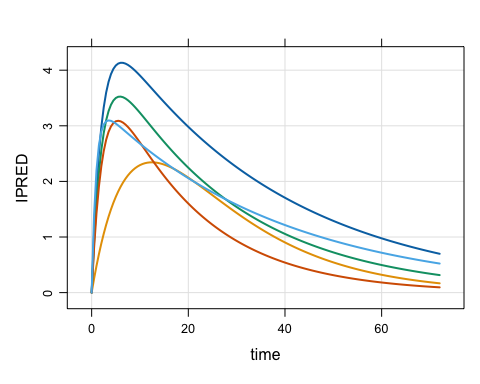
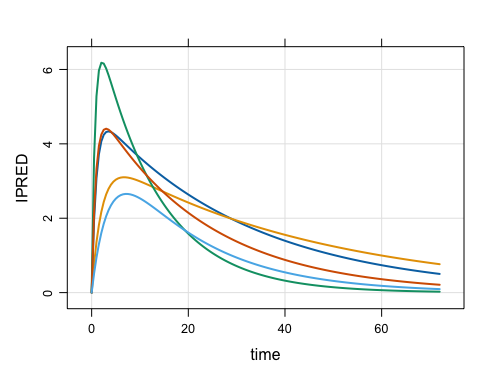
last commit prior to transfer

diff --git a/README.md b/README.md
@@ -60,15 +60,15 @@ out
 . Dim  : 1.4M x 4
 . Files: 1 [13.2 Mb]
 . Owner: yes (gc)
-.     ID time        CL     IPRED
-. 1:   1  0.0 0.7113651 0.0000000
-. 2:   1  0.0 0.7113651 0.0000000
-. 3:   1  0.5 0.7113651 0.6765573
-. 4:   1  1.0 0.7113651 1.2380828
-. 5:   1  1.5 0.7113651 1.7025064
-. 6:   1  2.0 0.7113651 2.0849863
-. 7:   1  2.5 0.7113651 2.3983372
-. 8:   1  3.0 0.7113651 2.6533922
+.     ID time       CL     IPRED
+. 1:   1  0.0 1.249224 0.0000000
+. 2:   1  0.0 1.249224 0.0000000
+. 3:   1  0.5 1.249224 0.8828213
+. 4:   1  1.0 1.249224 1.4027791
+. 5:   1  1.5 1.249224 1.7041492
+. 6:   1  2.0 1.249224 1.8739082
+. 7:   1  2.5 1.249224 1.9644891
+. 8:   1  3.0 1.249224 2.0074996
 ```
 
 ## Very lightweight simulation output object
@@ -79,7 +79,7 @@ disk.
 
 ``` r
 basename(out$files)
-. [1] "mrgsims-ds-d6833c771dfc.parquet"
+. [1] "mrgsims-ds-141627dfeed38.parquet"
 ```
 
 This means there is almost nothing inside the object itself
@@ -126,23 +126,23 @@ head(out)
 . # A tibble: 6 × 4
 .      ID  time    CL IPRED
 .   <dbl> <dbl> <dbl> <dbl>
-. 1     1   0   0.711 0    
-. 2     1   0   0.711 0    
-. 3     1   0.5 0.711 0.677
-. 4     1   1   0.711 1.24 
-. 5     1   1.5 0.711 1.70 
-. 6     1   2   0.711 2.08
+. 1     1   0    1.25 0    
+. 2     1   0    1.25 0    
+. 3     1   0.5  1.25 0.883
+. 4     1   1    1.25 1.40 
+. 5     1   1.5  1.25 1.70 
+. 6     1   2    1.25 1.87
 
 tail(out)
 . # A tibble: 6 × 4
 .      ID  time    CL IPRED
 .   <dbl> <dbl> <dbl> <dbl>
-. 1  3000  238. 0.632 0.899
-. 2  3000  238  0.632 0.891
-. 3  3000  238. 0.632 0.883
-. 4  3000  239  0.632 0.875
-. 5  3000  240. 0.632 0.867
-. 6  3000  240  0.632 0.859
+. 1  3000  238. 0.620 0.222
+. 2  3000  238  0.620 0.219
+. 3  3000  238. 0.620 0.215
+. 4  3000  239  0.620 0.212
+. 5  3000  240. 0.620 0.208
+. 6  3000  240  0.620 0.205
 
 dim(out)
 . [1] 1446000       4
@@ -156,16 +156,16 @@ as_tibble(out)
 . # A tibble: 1,446,000 × 4
 .       ID  time    CL IPRED
 .    <dbl> <dbl> <dbl> <dbl>
-.  1     1   0   0.711 0    
-.  2     1   0   0.711 0    
-.  3     1   0.5 0.711 0.677
-.  4     1   1   0.711 1.24 
-.  5     1   1.5 0.711 1.70 
-.  6     1   2   0.711 2.08 
-.  7     1   2.5 0.711 2.40 
-.  8     1   3   0.711 2.65 
-.  9     1   3.5 0.711 2.86 
-. 10     1   4   0.711 3.02 
+.  1     1   0    1.25 0    
+.  2     1   0    1.25 0    
+.  3     1   0.5  1.25 0.883
+.  4     1   1    1.25 1.40 
+.  5     1   1.5  1.25 1.70 
+.  6     1   2    1.25 1.87 
+.  7     1   2.5  1.25 1.96 
+.  8     1   3    1.25 2.01 
+.  9     1   3.5  1.25 2.02 
+. 10     1   4    1.25 2.02 
 . # ℹ 1,445,990 more rows
 ```
 
@@ -188,19 +188,19 @@ Or try your hand at duckdb
 ``` r
 as_duckdb_ds(out)
 . # Source:   table<arrow_001> [?? x 4]
-. # Database: DuckDB 1.5.1 [kyleb@Darwin 24.6.0:R 4.5.3/:memory:]
+. # Database: DuckDB 1.5.1 [root@Darwin 25.5.0:R 4.5.3/:memory:]
 .       ID  time    CL IPRED
 .    <dbl> <dbl> <dbl> <dbl>
-.  1     1   0   0.711 0    
-.  2     1   0   0.711 0    
-.  3     1   0.5 0.711 0.677
-.  4     1   1   0.711 1.24 
-.  5     1   1.5 0.711 1.70 
-.  6     1   2   0.711 2.08 
-.  7     1   2.5 0.711 2.40 
-.  8     1   3   0.711 2.65 
-.  9     1   3.5 0.711 2.86 
-. 10     1   4   0.711 3.02 
+.  1     1   0    1.25 0    
+.  2     1   0    1.25 0    
+.  3     1   0.5  1.25 0.883
+.  4     1   1    1.25 1.40 
+.  5     1   1.5  1.25 1.70 
+.  6     1   2    1.25 1.87 
+.  7     1   2.5  1.25 1.96 
+.  8     1   3    1.25 2.01 
+.  9     1   3.5  1.25 2.02 
+. 10     1   4    1.25 2.02 
 . # ℹ more rows
 ```
 
@@ -234,15 +234,15 @@ collect(dd)
 .     time  Mean     n
 .    <dbl> <dbl> <int>
 .  1   0    0     6000
-.  2   0.5  1.08  3000
-.  3   1    1.77  3000
-.  4   1.5  2.23  3000
-.  5   2    2.54  3000
-.  6   2.5  2.75  3000
-.  7   3    2.90  3000
-.  8   3.5  3.00  3000
-.  9   4    3.06  3000
-. 10   4.5  3.09  3000
+.  2   0.5  1.12  3000
+.  3   1    1.82  3000
+.  4   1.5  2.28  3000
+.  5   2    2.59  3000
+.  6   2.5  2.81  3000
+.  7   3    2.95  3000
+.  8   3.5  3.05  3000
+.  9   4    3.11  3000
+. 10   4.5  3.14  3000
 . # ℹ 471 more rows
 ```
 
@@ -256,7 +256,7 @@ library(future.apply, quietly = TRUE)
 
 plan(multisession, workers = 5L)
 
-out2 <- future_lapply(1:10, \(x) { mrgsim_ds(mod, data) }, future.seed = TRUE)
+out2 <- future_lapply(1:500, \(x) { mrgsim_ds(mod, data) }, future.seed = TRUE)
 
 out2 <- reduce_ds(out2)
 
@@ -269,23 +269,23 @@ object size.
 ``` r
 out2
 . Model: popex
-. Dim  : 14.5M x 4
-. Files: 10 [131.8 Mb]
+. Dim  : 723.0M x 4
+. Files: 500 [6.4 Gb]
 . Owner: yes (gc)
 .     ID time       CL    IPRED
-. 1:   1  0.0 1.668907 0.000000
-. 2:   1  0.0 1.668907 0.000000
-. 3:   1  0.5 1.668907 1.389168
-. 4:   1  1.0 1.668907 2.164311
-. 5:   1  1.5 1.668907 2.580709
-. 6:   1  2.0 1.668907 2.787935
-. 7:   1  2.5 1.668907 2.873612
-. 8:   1  3.0 1.668907 2.889060
+. 1:   1  0.0 1.000067 0.000000
+. 2:   1  0.0 1.000067 0.000000
+. 3:   1  0.5 1.000067 1.119126
+. 4:   1  1.0 1.000067 1.977525
+. 5:   1  1.5 1.000067 2.629675
+. 6:   1  2.0 1.000067 3.118820
+. 7:   1  2.5 1.000067 3.479284
+. 8:   1  3.0 1.000067 3.738307
 ```
 
 ``` r
 lobstr::obj_size(out2)
-. 296.81 kB
+. 429.99 kB
 ```
 
 ## Files on disk are automagically managed
@@ -294,12 +294,12 @@ All `arrow` files are stored in the `tempdir()` in parquet format
 
 ``` r
 list_temp()
-. 11 files [145 Mb]
-. - mrgsims-ds-d6833c771dfc.parquet
-. - mrgsims-ds-d6ca42ea1ca.parquet
+. 501 files [6.4 Gb]
+. - mrgsims-ds-141627dfeed38.parquet
+. - mrgsims-ds-141a21072a5e7.parquet
 .    ...
-. - mrgsims-ds-d6ce5c630542.parquet
-. - mrgsims-ds-d6ce754e2128.parquet
+. - mrgsims-ds-141a6e015654.parquet
+. - mrgsims-ds-141a6e54618e.parquet
 ```
 
 This directory is eventually removed when the R session ends. Tools are
@@ -354,8 +354,8 @@ cleaned up.
 ``` r
 gc()
 .           used  (Mb) gc trigger  (Mb) limit (Mb) max used  (Mb)
-. Ncells 2142581 114.5    3811248 203.6         NA  3630808 194.0
-. Vcells 3931312  30.0   16570059 126.5      16384 22218633 169.6
+. Ncells 1968976 105.2    6442081 344.1         NA  5873685 313.7
+. Vcells 3683421  28.2   19672646 150.1      16384 22110629 168.7
 
 list_temp()
 . 2 files [26.4 Mb]
@@ -443,14 +443,14 @@ out[[1]]
 . Files: 1 [10.5 Kb]
 . Owner: no
 .     ID TIME        CL    IPRED
-. 1:   1  0.0 0.5679588 0.000000
-. 2:   1  0.0 0.5679588 0.000000
-. 3:   1  0.5 0.5679588 1.062482
-. 4:   1  1.0 0.5679588 1.878848
-. 5:   1  1.5 0.5679588 2.502902
-. 6:   1  2.0 0.5679588 2.976728
-. 7:   1  2.5 0.5679588 3.333242
-. 8:   1  3.0 0.5679588 3.598189
+. 1:   1  0.0 0.6589588 0.000000
+. 2:   1  0.0 0.6589588 0.000000
+. 3:   1  0.5 0.6589588 1.955536
+. 4:   1  1.0 0.6589588 3.082661
+. 5:   1  1.5 0.6589588 3.719701
+. 6:   1  2.0 0.6589588 4.067000
+. 7:   1  2.5 0.6589588 4.243192
+. 8:   1  3.0 0.6589588 4.318523
 . [mrgsim.ds] pointer and source pid refreshed.
 ```
 
@@ -480,14 +480,14 @@ out
 . Files: 3 [31.4 Kb]
 . Owner: yes (gc)
 .     ID TIME        CL    IPRED
-. 1:   1  0.0 0.5679588 0.000000
-. 2:   1  0.0 0.5679588 0.000000
-. 3:   1  0.5 0.5679588 1.062482
-. 4:   1  1.0 0.5679588 1.878848
-. 5:   1  1.5 0.5679588 2.502902
-. 6:   1  2.0 0.5679588 2.976728
-. 7:   1  2.5 0.5679588 3.333242
-. 8:   1  3.0 0.5679588 3.598189
+. 1:   1  0.0 0.6589588 0.000000
+. 2:   1  0.0 0.6589588 0.000000
+. 3:   1  0.5 0.6589588 1.955536
+. 4:   1  1.0 0.6589588 3.082661
+. 5:   1  1.5 0.6589588 3.719701
+. 6:   1  2.0 0.6589588 4.067000
+. 7:   1  2.5 0.6589588 4.243192
+. 8:   1  3.0 0.6589588 4.318523
 ```
 
 Now we have all three files collected in a single object that we can
@@ -524,14 +524,14 @@ out2
 . Files: 3 [31.4 Kb]
 . Owner: yes (no gc)
 .     ID TIME        CL    IPRED
-. 1:   1  0.0 0.5679588 0.000000
-. 2:   1  0.0 0.5679588 0.000000
-. 3:   1  0.5 0.5679588 1.062482
-. 4:   1  1.0 0.5679588 1.878848
-. 5:   1  1.5 0.5679588 2.502902
-. 6:   1  2.0 0.5679588 2.976728
-. 7:   1  2.5 0.5679588 3.333242
-. 8:   1  3.0 0.5679588 3.598189
+. 1:   1  0.0 0.6589588 0.000000
+. 2:   1  0.0 0.6589588 0.000000
+. 3:   1  0.5 0.6589588 1.955536
+. 4:   1  1.0 0.6589588 3.082661
+. 5:   1  1.5 0.6589588 3.719701
+. 6:   1  2.0 0.6589588 4.067000
+. 7:   1  2.5 0.6589588 4.243192
+. 8:   1  3.0 0.6589588 4.318523
 ```
 
 ``` r